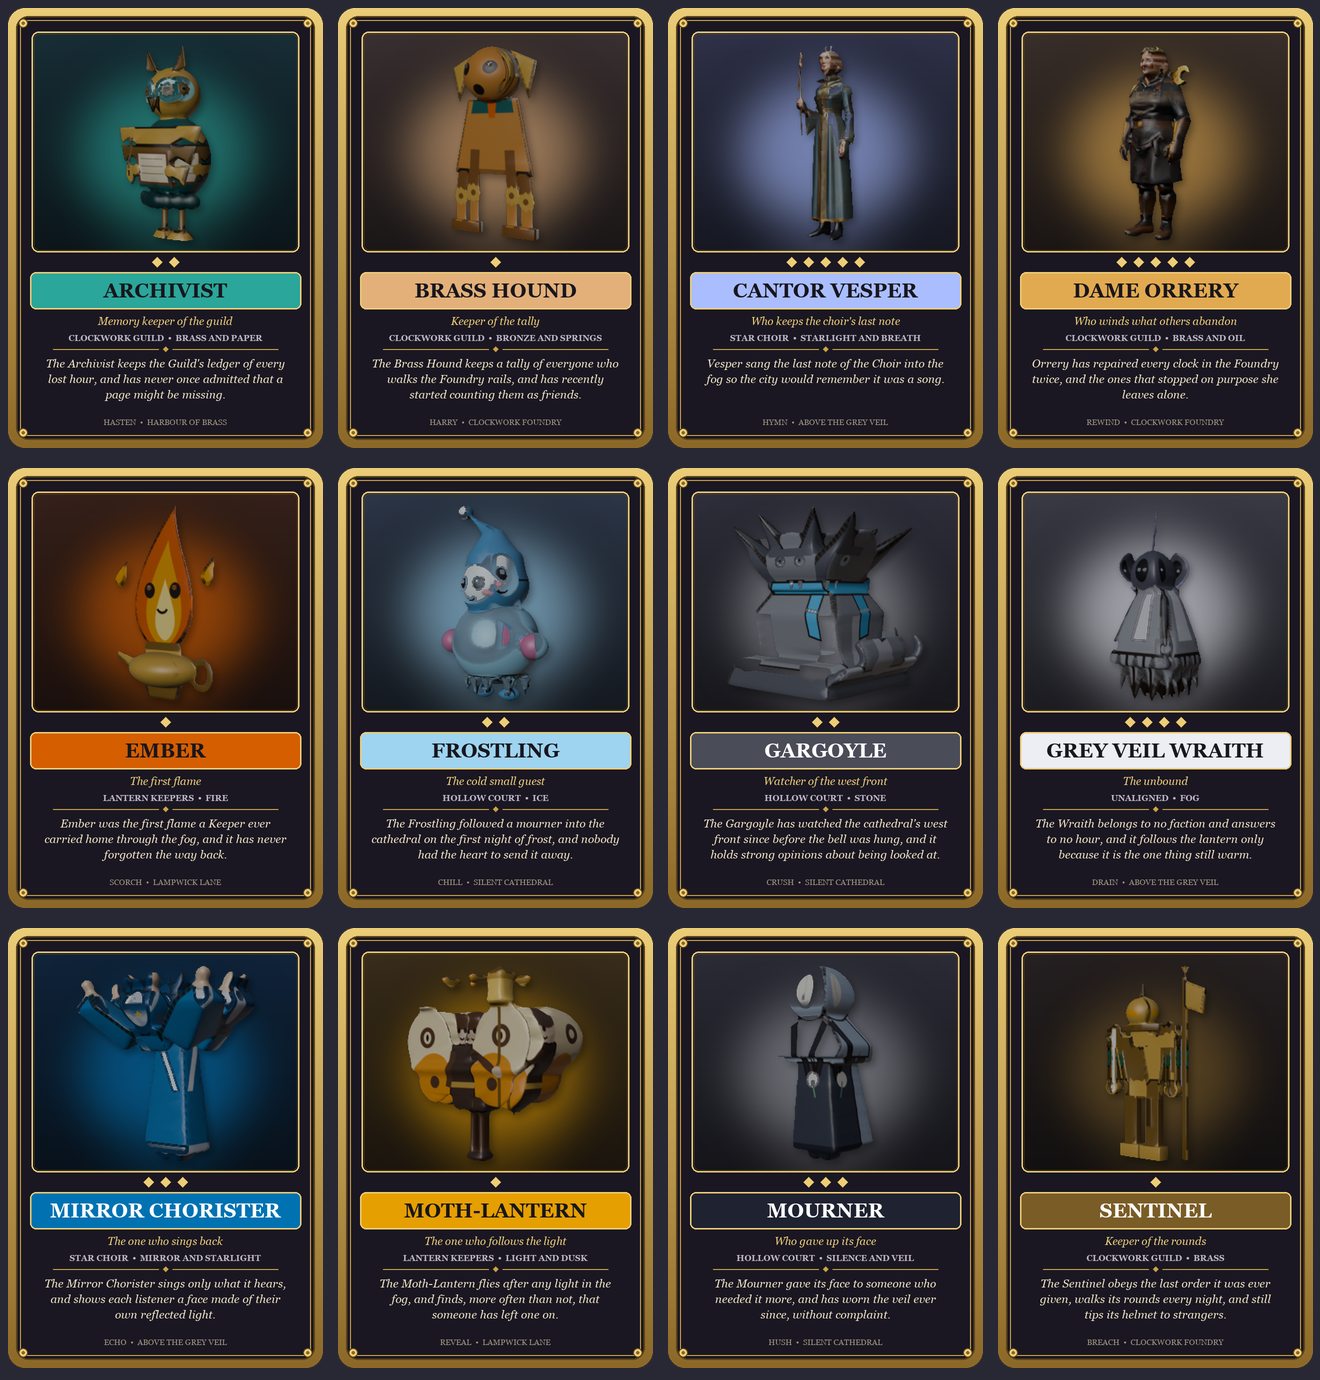
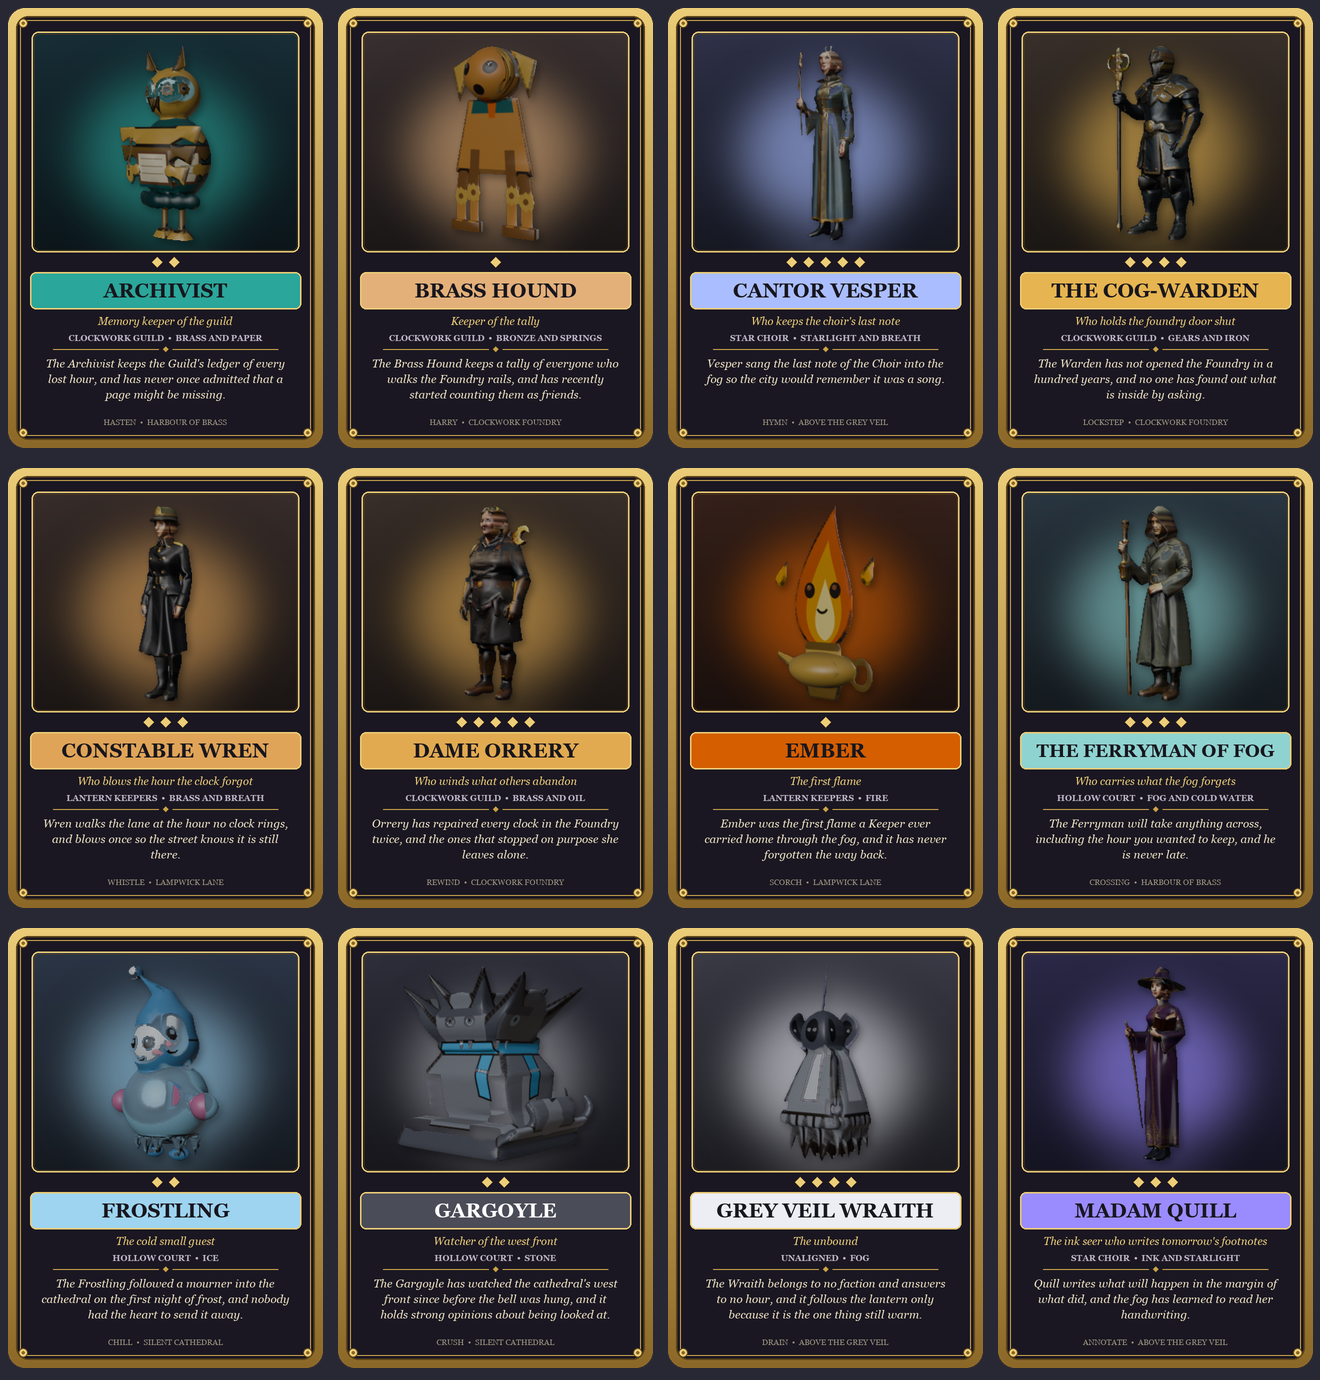
Stage completeness check passes for all 25 stages. Generated the missing front cards for the four new humans so lore, cards and voice lines are complete for 20 familiars.

diff --git a/Overnight/TODO.md b/Overnight/TODO.md
@@ -10,9 +10,9 @@ Rules: one commit per finished task via checkpoint.py with --task and a three-wo
   lane: docs-tooling | needs: Studio | depends: none | size: S | owner-files: ReplicatedStorage.Shared (delete only the stale 694-line MatchSim), ReplicatedStorage._GameSpeedTest
 - [ ] T606 | Fix SoundFX cap so a lower priority never stops a higher | verify: studio: run Tests via RunAll in Studio Edit; evidence file must hold PASS and the output (Tests/SoundCap.test.luau (new, 8 voices at priority 3 then priority 2))
   lane: fx-audio | needs: Studio | depends: none | size: S | owner-files: SoundFX, Tests/SoundCap.test.luau
-- [ ] T232 | Stage completeness check passes for all 25 stages | verify: python tools/check_stages_complete.py
+- [x] T232 | Stage completeness check passes for all 25 stages | verify: python tools/check_stages_complete.py
   lane: docs-tooling | needs: none | depends: none | size: S | owner-files: Studio_Export/StageCaptions.luau, tools/gen_stage_captions.py
-- [ ] T422 | Lore, cards, voice lines complete for all 20 familiars | verify: python tools/check_familiars_complete.py
+- [x] T422 | Lore, cards, voice lines complete for all 20 familiars | verify: python tools/check_familiars_complete.py
   lane: docs-tooling | needs: none | depends: none | size: S | owner-files: Roblox Dev/Lore/*, tools/voice_lines.py
 - [ ] T153 | Play-verify stage sets 4 and 5: stages 16 and 21, edge rings, console clean | verify: studio: evidence with captures at stages 16 and 21, Bug Log #10 closed
   lane: world | needs: Studio | depends: none | size: M | owner-files: Backdrop*.luau, Shared.StageSets entries 4 and 5, BackdropFoundry, BackdropVeil

diff --git a/Overnight/PROGRESS.md b/Overnight/PROGRESS.md
@@ -248,3 +248,6 @@
 - 07:02 T106 DONE (attested): Rig template for familiars (shared skeleton for quadrupeds, bipeds, flyers and floaters)
 - 07:07 T107 DONE (attested): Re-rig Ember, Gargoyle and Frostling onto the template and test one walk and one attack each
 - 07:08 loop turned off by the user's request (ACTIVE renamed); work continues without the Stop hook or the task gate
+- 19:18 CHECKPOINT c8c1696 on overnight/2026-10-27: Add Epic and Legendary humans, boss framework, Crow and Thief client models, UILib split, comms and notify tools. Promote the overnight board and relax the guardrails for per-task commits.
+
+## Run 2026-10-29 19:18 on overnight/2026-10-27 (9.0 h, 150 loops)

diff --git a/Roblox Dev/Notify Log.md b/Roblox Dev/Notify Log.md
@@ -9,3 +9,4 @@ One line per milestone sent to the phone with `python tools/notify.py --done` (n
 - 2026-10-29 19:09 Title art layers built and viewed (art only); Studio build, uploads and Play checks pending
 - 2026-10-29 19:14 main: coordinating; overnight board drafted; last: 19:14 silent mode + comms files
 - 2026-10-29 19:16 Title page live: faceless fog figure, drifting layers; motion verified by property sampling, window capture stale
+- 2026-10-29 19:18 Overnight armed until 04:18: 84 tasks in 7 lanes, one commit per task, ledger and morning digest on.

diff --git a/Roblox Dev/Comms/status/overnight-controller.md b/Roblox Dev/Comms/status/overnight-controller.md
@@ -1,0 +1,7 @@
+# overnight-controller
+- updated: 2026-10-29 19:18
+- now: armed; starting with python tasks T232 T422
+- next: T413 when Studio is free
+- done: 19:18 guardrails relaxed, board promoted
+- blocked: 
+- needs: 
